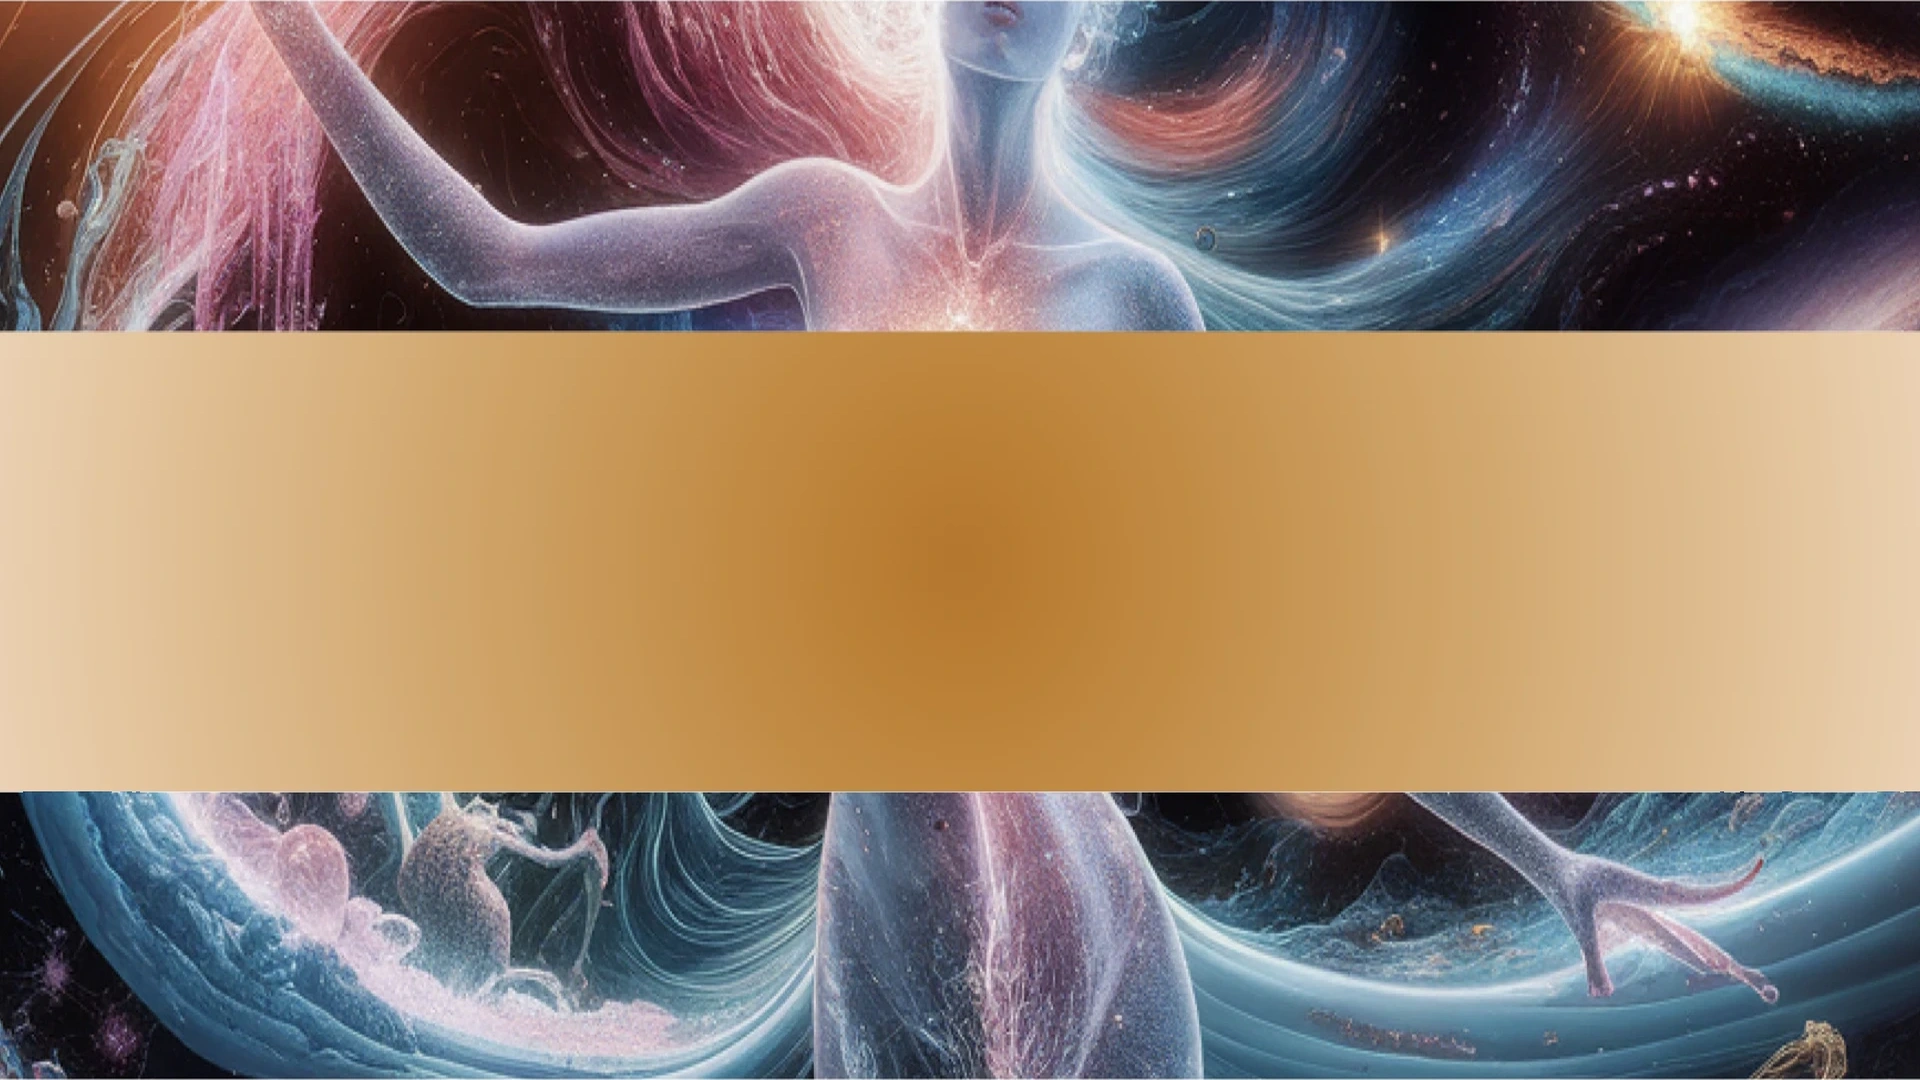
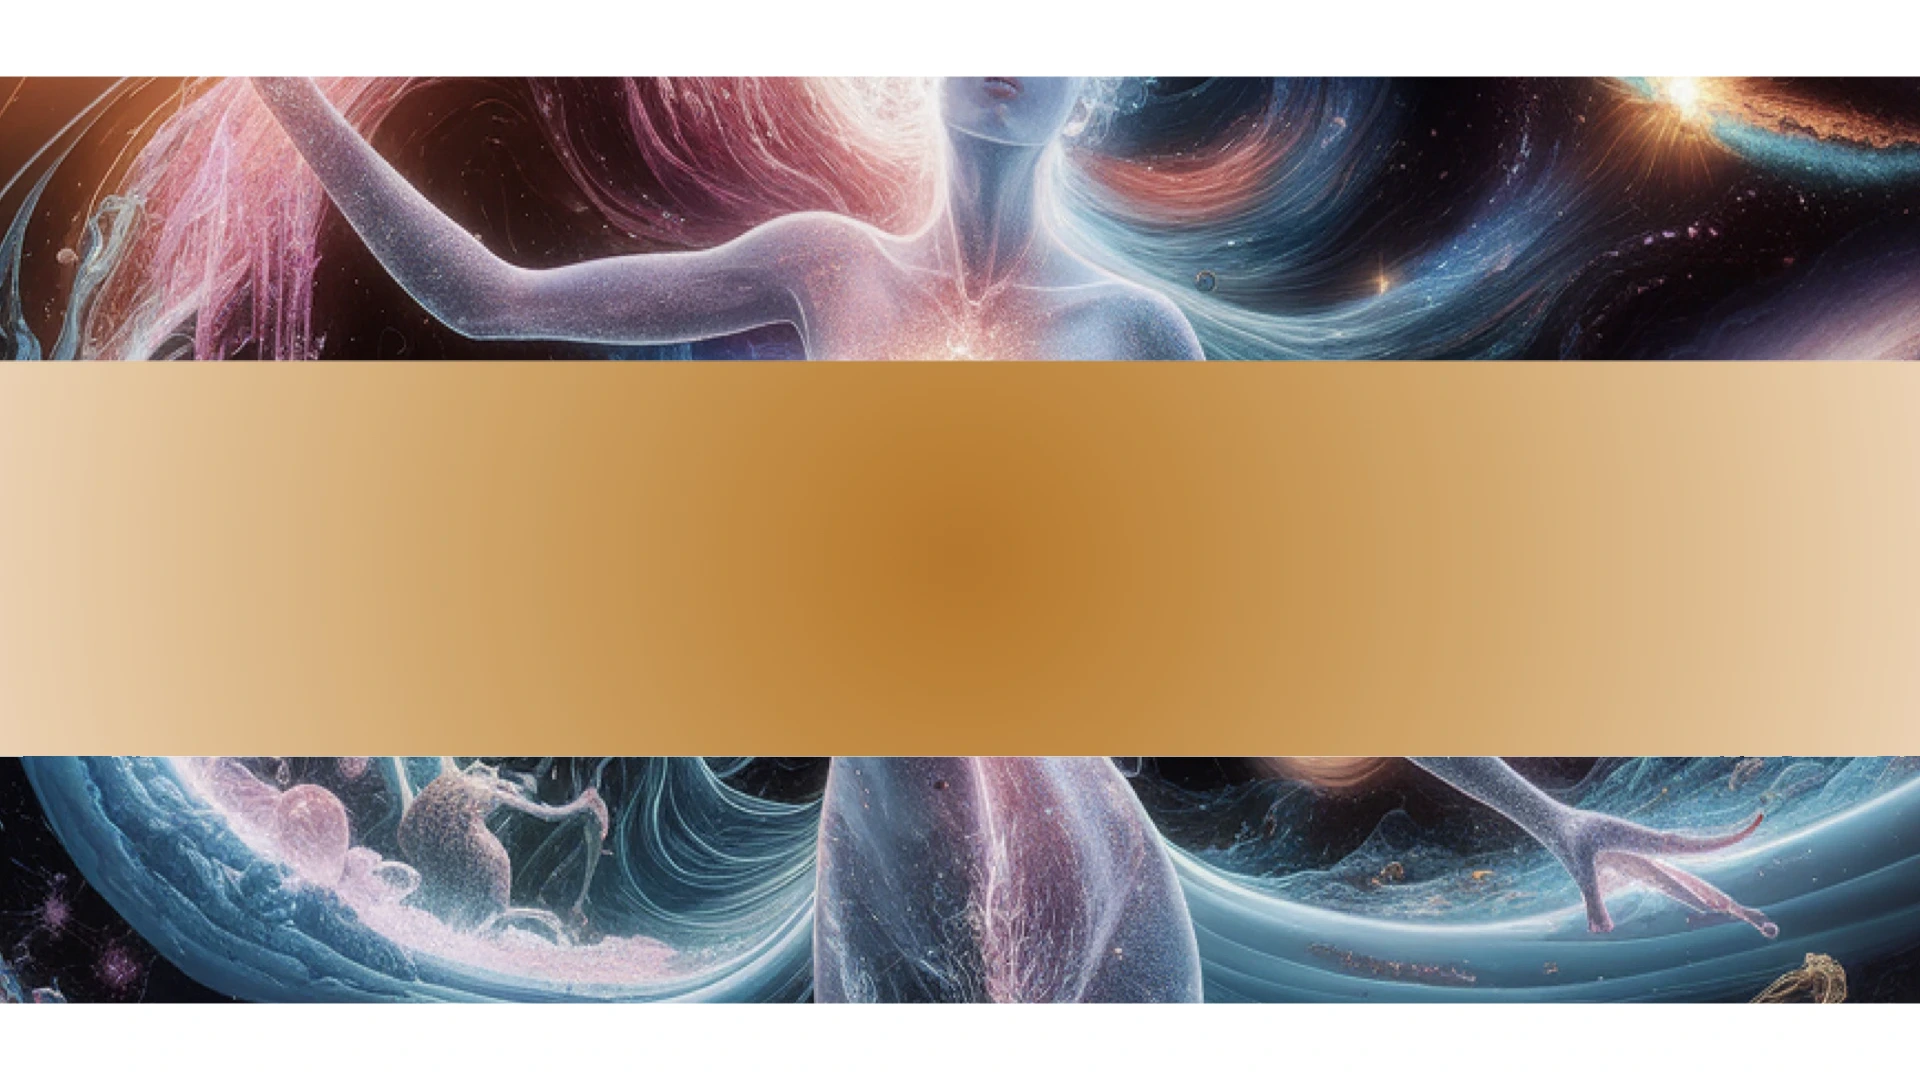
fix(endgame): set pure white backdrop and position image card on top of ticket

diff --git a/src/components/endgame/CodedEndgameReveal.tsx b/src/components/endgame/CodedEndgameReveal.tsx
@@ -493,9 +493,9 @@ export default function CodedEndgameReveal({
   return (
     <div
       ref={containerRef}
-      className="fixed inset-0 z-50 bg-[#08070b] overflow-hidden flex items-center justify-center select-none"
+      className="fixed inset-0 z-50 bg-[#ffffff] overflow-hidden flex items-center justify-center select-none"
     >
-      {/* 1920x1080 Virtual Canvas Scaled to Fit */}
+      {/* 1920x1080 Virtual Canvas Scaled to Fit - Seamless White Backdrop */}
       <div
         style={{
           width: '1920px',
@@ -503,6 +503,7 @@ export default function CodedEndgameReveal({
           transform: `scale(${scale})`,
           transformOrigin: 'center center',
           position: 'relative',
+          backgroundColor: '#ffffff',
           backgroundImage: 'url(/endgame/endgame_bg.webp)',
           backgroundSize: '1920px 1080px',
           backgroundPosition: 'center',
@@ -515,14 +516,15 @@ export default function CodedEndgameReveal({
           ref={spaceCanvasRef}
           width={1920}
           height={1080}
-          className="absolute inset-0 z-10 pointer-events-none"
+          className="absolute inset-0 pointer-events-none"
+          style={{ zIndex: 2 }}
         />
 
-        {/* Center Card Container */}
+        {/* Center Card Container (Phase 1 - On Top of Ticket) */}
         <div
           ref={cardContainerRef}
-          className="absolute left-1/2 top-1/2 -translate-x-1/2 -translate-y-1/2 z-20 flex items-center justify-center pointer-events-none"
-          style={{ width: '600px', height: '600px' }}
+          className="absolute left-1/2 top-1/2 -translate-x-1/2 -translate-y-1/2 flex items-center justify-center pointer-events-none"
+          style={{ width: '600px', height: '600px', zIndex: 10 }}
         >
           <img
             src={card.image}
@@ -539,19 +541,20 @@ export default function CodedEndgameReveal({
           />
         </div>
 
-        {/* 3D Voronoi Shatter Canvas */}
+        {/* 3D Voronoi Shatter Canvas (Phase 2 - On Top of Card & Ticket) */}
         <canvas
           ref={shatterCanvasRef}
           width={1920}
           height={1080}
-          className="absolute inset-0 z-25 pointer-events-none"
+          className="absolute inset-0 pointer-events-none"
+          style={{ zIndex: 15 }}
         />
 
-        {/* Ticket Reveal Container */}
+        {/* Ticket Reveal Container (Phase 3 & 4 - Under Card, Revealed on Shatter) */}
         <div
           ref={ticketRef}
-          className="absolute left-1/2 top-1/2 -translate-x-1/2 -translate-y-1/2 z-30 pointer-events-none"
-          style={{ width: '966px', height: '470px' }}
+          className="absolute left-1/2 top-1/2 -translate-x-1/2 -translate-y-1/2 pointer-events-none"
+          style={{ width: '966px', height: '470px', zIndex: 8 }}
         >
           {/* Ticket SVG */}
           <div className="absolute inset-0 w-[966px] h-[470px] drop-shadow-[0_20px_50px_rgba(0,0,0,0.85)]">
@@ -662,7 +665,8 @@ export default function CodedEndgameReveal({
           ref={particleCanvasRef}
           width={1920}
           height={1080}
-          className="absolute inset-0 z-35 pointer-events-none"
+          className="absolute inset-0 pointer-events-none"
+          style={{ zIndex: 20 }}
         />
 
         {/* Close / Return Button */}
